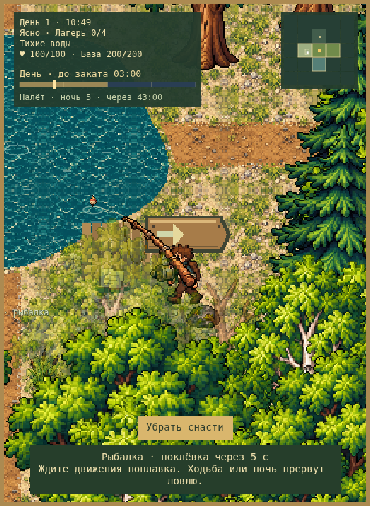
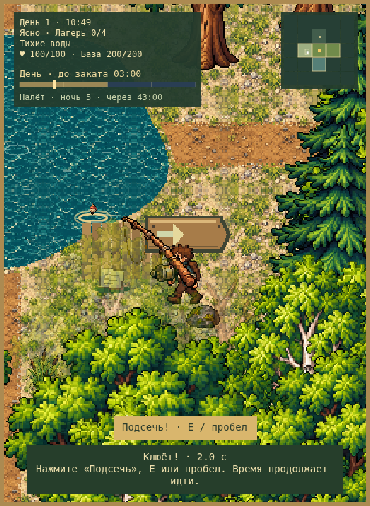
feat: add matching perch PNG and clearer fishing bites

diff --git a/phaser/exploration-view.js b/phaser/exploration-view.js
@@ -37,8 +37,9 @@ export class ExplorationView {
     this.scene.axe.setVisible(!f && !this.scene.heroView.bakedTool);
     if (f) {
       const site = c.exploration.get(f.siteId),
-        x = site.x - 130,
-        y = site.y - 88 + Math.sin(t * 6) * (f.phase === "bite" ? 3 : 1);
+        bite = f.phase === "bite",
+        x = site.x - 130 + (bite ? Math.round(Math.sin(t * 26) * 2) : 0),
+        y = site.y - 88 + (bite ? 9 + Math.sin(t * 18) * 4 : Math.sin(t * 6));
       this.rod
         .setPosition(p.x - 16, p.y - 24)
         .setDepth(p.y + 0.1)
@@ -54,8 +55,9 @@ export class ExplorationView {
           y,
         );
       this.ripples
-        .lineStyle(2, 0xb4d5bf, 0.6)
-        .strokeEllipse(x, y + 6, 18 + ((t * 13) % 24), 7 + ((t * 5) % 10));
+        .lineStyle(bite ? 3 : 2, bite ? 0xf2d48b : 0xb4d5bf, bite ? 0.95 : 0.6)
+        .strokeEllipse(x, y + 6, (bite ? 30 : 18) + ((t * 13) % 24), 7 + ((t * 5) % 10));
+      if (bite) this.ripples.lineStyle(2, 0xf2d48b, 0.65).strokeEllipse(x, y + 6, 52, 20);
     }
     const age = t - this.catchTime;
     this.fish.setVisible(age >= 0 && age < 1);

diff --git a/phaser/loot-item-assets.js b/phaser/loot-item-assets.js
@@ -8,6 +8,7 @@ const IDS = new Set([
   "relic",
   "rod",
   "bobber",
+  "fish",
 ]);
 export function lootItemIcon(id) {
   return IDS.has(id) ? `./src/assets/loot-items/icons/${id}.png` : null;
@@ -45,7 +46,7 @@ export function applyLootItemFrames(scene, sources) {
   const pack = scene.registry.get("lootItemPack");
   if (!pack) throw Error("Missing approved loot item pack");
   for (const [id, f] of Object.entries(pack.manifest.frames)) {
-    const key = ["rod", "bobber"].includes(id)
+    const key = ["rod", "bobber", "fish"].includes(id)
       ? `exploration.${id}`
       : `loot.${id}`;
     sources.set(

diff --git a/index.html b/index.html
@@ -187,6 +187,15 @@
       font-size: 14px;
       color: #ffe2a0;
     }
+    #fishingControls[data-phase="bite"] {
+      border-color: #ffe2a0;
+      background: #425136;
+    }
+    #fishingControls[data-phase="bite"] [data-reel]:enabled {
+      background: #e6c37e;
+      color: #263326;
+      box-shadow: 0 0 0 2px #ffe2a0;
+    }
     .shop-item {
       display: grid;
       grid-template-columns: 38px 1fr 120px;

diff --git a/phaser/exploration-ui.js b/phaser/exploration-ui.js
@@ -216,6 +216,7 @@ export function createExplorationUi(scene) {
       const hidden = !f || scene.core.state.gameOver;
       if (controls.hidden !== hidden) controls.hidden = hidden;
       if (!f) return;
+      controls.dataset.phase = f.phase;
       const text =
         f.phase === "bite"
           ? `Клюёт! Подсекайте · ${Math.max(0, f.timer).toFixed(1)} с`

diff --git a/tests/loot_item_art_smoke.py b/tests/loot_item_art_smoke.py
@@ -52,7 +52,7 @@ try:
             before = q.evaluate("w.combatLootView.flights.map(f=>[f.image.x,f.image.y])")
             q.evaluate("g.step(3)")
             assert q.evaluate("w.combatLootView.flights.map(f=>[f.image.x,f.image.y])") == before
-            assert q.locator("[data-bag-item] img[data-item-icon]").count() == 4
+            assert q.locator("[data-bag-item] img[data-item-icon]").count() == 5
             assert q.locator("[data-use-item] img[data-item-icon=salve]").count() == 1
             q.locator("#activityDialog").screenshot(path=str(ROOT / f"docs/loot-item-bag-{'mobile' if mobile else 'desktop'}.png"))
             click(q, "[data-activity-close]", mobile); q.wait_for_function("!m.paused")
@@ -75,9 +75,12 @@ try:
             q.wait_for_function("!m.paused&&m.exploration.fishing")
             q.evaluate("g.step(.1)")
             assert q.evaluate("w.explorationView.rod.visible&&w.explorationView.bobber.visible&&w.explorationView.rod.frame.name==='exploration.rod'&&w.explorationView.bobber.frame.name==='exploration.bobber'&&w.explorationView.rod.rotation===0")
+            q.evaluate("m.exploration.fishing.phase='bite';m.exploration.fishing.timer=2;g.step(0)")
+            assert q.locator('#fishingControls[data-phase=bite] [data-reel]:enabled').count() == 1
             q.wait_for_timeout(100); q.evaluate("g.step(0)")
             q.locator("#game-frame").screenshot(path=str(ROOT / f"docs/loot-item-fishing-{'mobile' if mobile else 'desktop'}.png"))
-            click(q, "[data-fish-cancel]", mobile)
+            click(q, "[data-reel]", mobile)
+            assert q.evaluate("m.state.exploration.items.fish===1&&w.explorationView.fish.visible&&w.explorationView.fish.frame.name==='exploration.fish'&&w.assets.lootItems.manifest.frames.fish.width===28")
             assert q.evaluate("!m.exploration.fishing&&!w.explorationView.bobber.visible")
             q.evaluate("window.old=m;w.scene.restart();void 0")
             q.wait_for_function("lumberPhaser.core!==old&&lumberPhaser.scene.hudReady")

diff --git a/scripts/prepare_loot_items.py b/scripts/prepare_loot_items.py
@@ -1,5 +1,5 @@
 #!/usr/bin/env python3
-"""Approved row 3 -> seven binary-alpha sprites/icons; no RGB white-key removal."""
+"""Approved row 3 + matching perch -> binary-alpha sprites; no white-key removal."""
 from pathlib import Path
 import json
 from PIL import Image, ImageOps
@@ -8,13 +8,16 @@ from prepare_items import fit
 from prepare_assets import foot_anchor
 
 ROOT = Path(__file__).resolve().parents[1]
-NAMES = ("coins", "resin", "key", "salve", "relic", "rod", "bobber")
+SOURCE_NAMES = ("coins", "resin", "key", "salve", "relic", "rod", "bobber")
+NAMES = (*SOURCE_NAMES, "fish")
 SIZES = {"coins": (28, 24), "resin": (28, 28), "key": (24, 32),
-         "salve": (26, 28), "relic": (28, 32), "rod": (56, 68), "bobber": (14, 24)}
+         "salve": (26, 28), "relic": (28, 32), "rod": (56, 68), "bobber": (14, 24), "fish": (28, 18)}
 
 
 def main():
-    sprites, source = extract("loot-items-selected-3-sheet", 4, NAMES)
+    sprites, source = extract("loot-items-selected-3-sheet", 4, SOURCE_NAMES)
+    fish, fish_source = extract("loot-perch-style-3", 1, ("fish",))
+    sprites.update(fish)
     frames, metadata = {}, {}
     atlas = Image.new("RGBA", (128, 128))
     x = y = 2
@@ -52,10 +55,10 @@ def main():
     atlas.save(out / "items.png", optimize=True)
     (out / "manifest.json").write_text(json.dumps({
         "version": 1, "approvedVariant": 3, "atlas": "items.png", "size": list(atlas.size),
-        "sources": [source], "frames": metadata,
+        "sources": [source, fish_source], "frames": metadata,
         "processing": {"nativeAlpha": True, "alphaThreshold": 128, "filter": "nearest", "whiteColorRemoval": False},
     }, indent=2) + "\n")
-    print(f"Prepared {len(frames)} approved loot sprites in 128x128 and seven 32x32 icons")
+    print(f"Prepared {len(frames)} approved loot sprites in 128x128 and {len(frames)} 32x32 icons")
 
 
 if __name__ == "__main__":

diff --git a/tests/loot_item_assets_test.py b/tests/loot_item_assets_test.py
@@ -9,7 +9,7 @@ from PIL import Image
 
 ROOT = Path(__file__).resolve().parents[1]
 PACK = ROOT / "src/assets/loot-items"
-NAMES = {"coins", "resin", "key", "salve", "relic", "rod", "bobber"}
+NAMES = {"coins", "resin", "key", "salve", "relic", "rod", "bobber", "fish"}
 
 
 def pixels(image):
@@ -25,8 +25,9 @@ class LootItems(unittest.TestCase):
         self.assertEqual(m["approvedVariant"], 3)
         self.assertEqual(set(m["frames"]), NAMES)
         self.assertEqual(m["size"], [128, 128])
-        source = ROOT / "art/source" / m["sources"][0]["file"]
-        self.assertEqual(hashlib.sha256(source.read_bytes()).hexdigest(), m["sources"][0]["sha256"])
+        for info in m["sources"]:
+            source = ROOT / "art/source" / info["file"]
+            self.assertEqual(hashlib.sha256(source.read_bytes()).hexdigest(), info["sha256"])
         for f in m["frames"].values():
             self.assertLessEqual(f["x"] + f["width"], 128)
             self.assertLessEqual(f["y"] + f["height"], 128)

diff --git a/docs/LOOT-ITEM-ART.md b/docs/LOOT-ITEM-ART.md
@@ -1,6 +1,6 @@
 # Предметы добычи и находок — выбор оформления
 
-Статус: **пользователь выбрал ряд №3 для всех семи предметов, PNG подключены**.
+Статус: **предметы выбранного ряда №3 подключены; добавлен окунь в той же стилистике**.
 
 [Открыть PNG-коллаж](../art/source/loot-items-concepts-sheet.png). В каждом ряду слева направо: **монеты, смола, ключ, мазь, реликвия, удочка, поплавок**. Коллаж сохранён как история выбора; выбран весь третий ряд.
 
@@ -16,17 +16,17 @@
 ## Подключение №3
 
 1. Из выбранного ряда подготовлен [отдельный чистый лист](../art/source/loot-items-selected-3-sheet.png), без номеров и подписей. `scripts/prepare_loot_items.py` переиспользует существующую нарезку по alpha, сохраняет светлые детали и обнуляет скрытый RGB. Белый цвет не удаляется по цвету.
-2. В `src/assets/loot-items/` находятся атлас 128×128, манифест с SHA-256 исходника/основаниями и семь иконок 32×32. Монеты и смола показываются на земле, ключ/смола/мазь/реликвия — в сумке и предложениях торговца, монеты — в лавке. Рыба пока сохраняет прежнее оформление.
-3. Удочка и поплавок используют PNG. Удочка зеркалится при офлайн-подготовке для броска влево; точка руки и кончик задаются в манифесте, леска начинается от настоящего кончика изображения. Рыболовные таймеры и награды прежние.
+2. В `src/assets/loot-items/` находятся атлас 128×128, манифест с SHA-256 исходников/основаниями и восемь иконок 32×32. Монеты и смола показываются на земле, ключ/смола/мазь/реликвия/рыба — в сумке, монеты — в лавке. Новый [окунь](../art/source/loot-perch-style-3.png) заменяет прежний процедурный кадр рыбы при вылове; дополнительный атлас не требуется.
+3. Удочка и поплавок используют PNG. Удочка зеркалится при офлайн-подготовке для броска влево; точка руки и кончик задаются в манифесте, леска начинается от настоящего кончика изображения. При поклёвке поплавок притапливается и дрожит, круги становятся золотистыми, активная кнопка подсечки выделяется цветом. Движение использует игровое время и замирает на паузе. Рыболовные таймеры и награды прежние.
 4. Вблизи добыча выводится поверх крон с небольшим бликом. В тёмную ночь значки и подписи видимы только в доступном свете; улучшение фонаря сохраняет свой радиус. При подборе летят не больше двух значков за событие, максимум шесть одновременно, на 0,45 активной секунды. Пауза останавливает перелёт. Ресурсы начисляются моделью сразу, а не по завершении анимации.
 
-Исходники сохранены без редактирования в `art/source/`, оба — 1536×1024 RGBA PNG. Стилистические ориентиры — утверждённые `items-axes-sheet.png` и `camp-tent-states-sheet.png`. Игровые PNG имеют только alpha 0/255; прозрачные пиксели — RGB 0/0/0. Отдельная временная GPU-текстура удаляется после загрузки, при перезапуске повторно используется сохранённый небольшой источник. Общий атлас остаётся в пределах 2048×2048.
+Исходники сохранены без редактирования в `art/source/`: листы — 1536×1024, окунь — 1774×887 RGBA PNG с настоящей прозрачностью. Стилистические ориентиры — утверждённые `items-axes-sheet.png` и `camp-tent-states-sheet.png`. Игровые PNG имеют только alpha 0/255; прозрачные пиксели — RGB 0/0/0. Отдельная временная GPU-текстура удаляется после загрузки, при перезапуске повторно используется сохранённый небольшой источник. Общий атлас остаётся в пределах 2048×2048.
 
 Кадры подключает `phaser/loot-item-assets.js`; отображение добычи и перелётов — `phaser/combat-loot-view.js`, сумка/торговля — `phaser/exploration-ui.js`, снасти — `phaser/exploration-view.js`. Модель денег, цены, шансы и лимиты не менялись.
 
 ## Проверки и снимки
 
-Пройдены четыре проверки alpha/белых деталей/размеров/повторяемости подготовки и 22 проверки модели/импортов. Два адресных браузерных сценария в WebGL на ПК и мобильном Canvas проверяют PNG, близкие/освещённые маркеры, лимит и паузу эффектов, сумку, настоящую покупку по иконке, рыбалку, реальный подбор/покупку за добычу и перезапуск сцены. После выравнивания строк и отключения стандартной синей подсветки касания повторена только мобильная часть графического сценария.
+Для добавления рыбы пройдены четыре проверки alpha/светлых деталей/размеров/повторяемости подготовки, тесты модели исследования/импортов и графический сценарий на ПК WebGL и мобильном Canvas из `dist/`. Он проверяет пять иконок сумки, настоящую покупку, активную поклёвку, подсечку кнопкой, получение ровно одной рыбы с PNG и перезапуск. Экономический сценарий добычи сохранён отдельно; для этого изменения он не повторялся.
 
 ```sh
 python scripts/prepare_loot_items.py
@@ -39,4 +39,4 @@ python tests/combat_loot_smoke.py
 
 [Добыча на телефоне](loot-item-ground-mobile.png) · [сумка](loot-item-bag-mobile.png) · [торговец](loot-item-merchant.png) · [рыбалка на ПК](loot-item-fishing-desktop.png) · [на телефоне](loot-item-fishing-mobile.png). Запасы и позиции графических сценариев задаются фикстурами; обычная игра начинается с нуля. Исходники, коллаж и снимки не входят в сборку. Новых библиотек нет; замер FPS на физическом телефоне не выполнялся.
 
-Автономная сборка — 4 739 266 байт, прирост 28 427 байт к предыдущей версии. Новый распакованный источник кадров — 64 KiB RGBA; иконки загружаются интерфейсом по мере использования.
+Пакет предметов с манифестом и восемью иконками занимает 24 022 байта. Распакованный источник кадров остаётся 64 KiB RGBA; иконки загружаются интерфейсом по мере использования. Общая сборка и совмещённая нагрузка описаны в [WORLD-READABILITY.md](WORLD-READABILITY.md).
